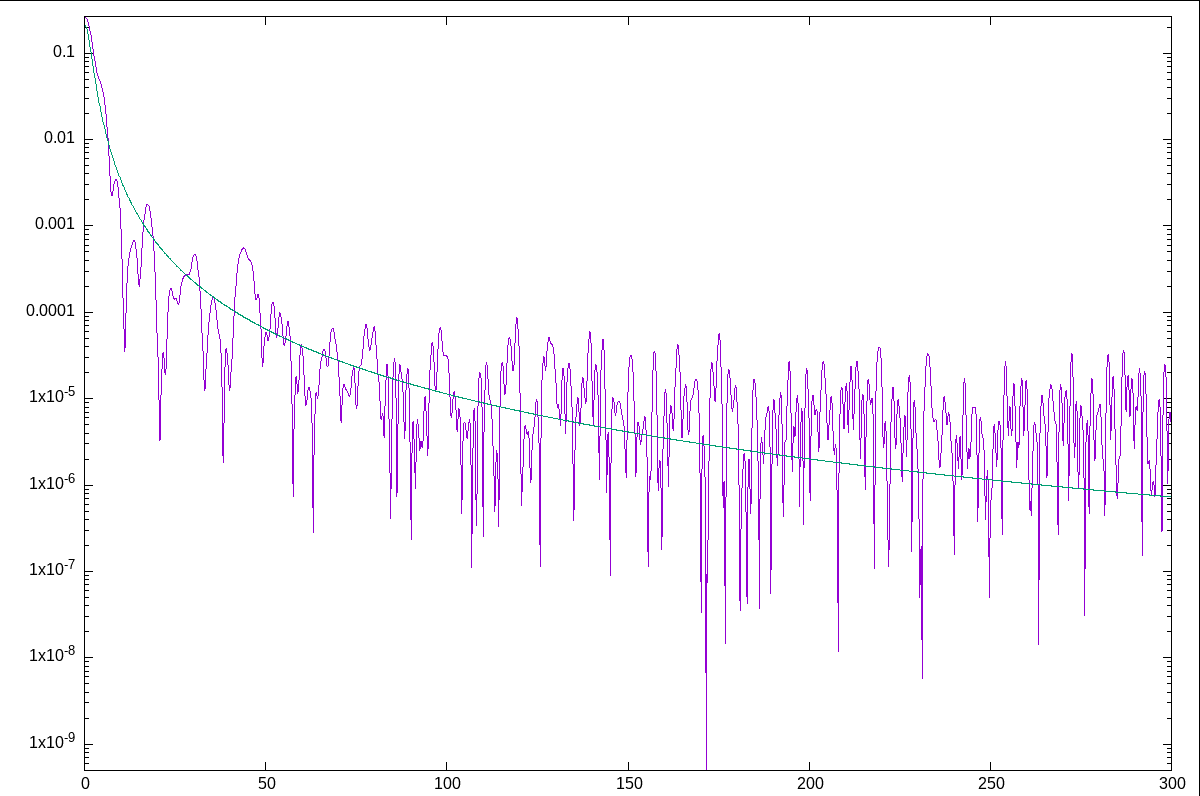
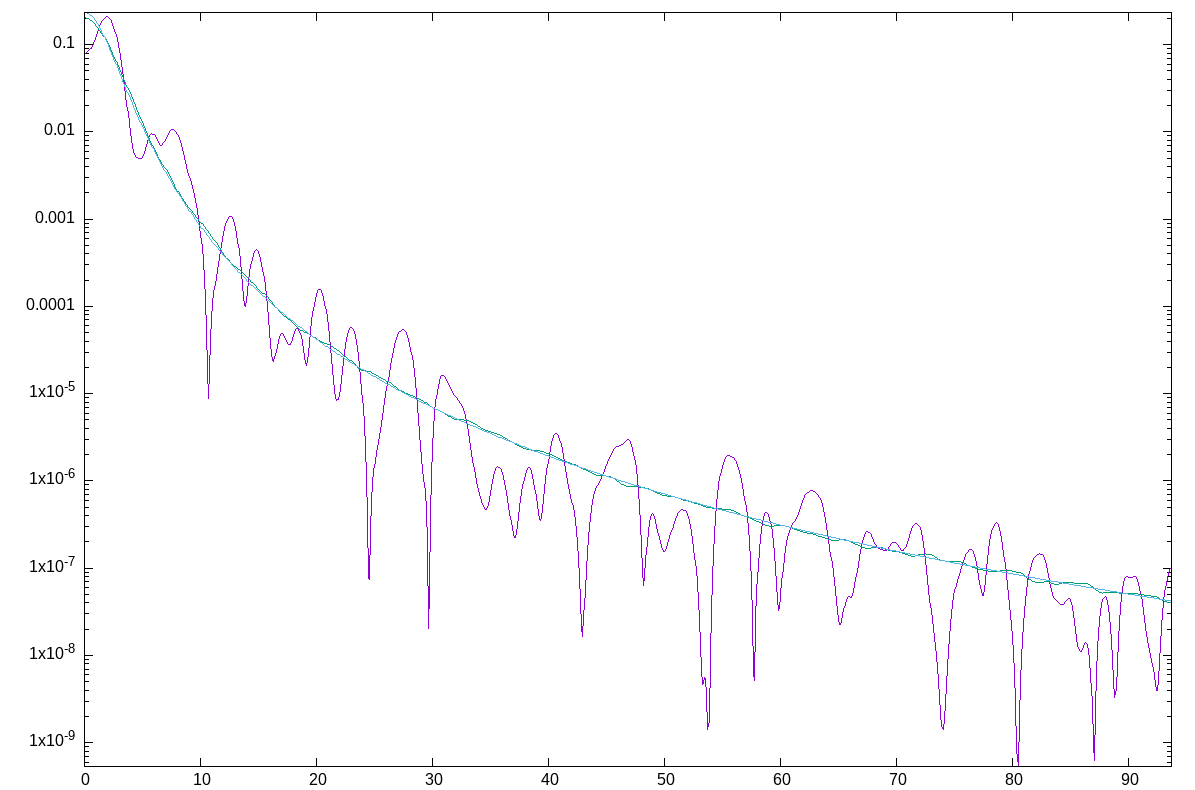
Modified the basic example not to demonstrate over-estimating frequencies, and added a replicate interface to the estimator.

diff --git a/README.md b/README.md
@@ -21,12 +21,13 @@ using IrregularSpectra
 
 # Generate n uniform points on [a, b]:
 n      = 3000
-(a, b) = (0.0, 1.0)
+(a, b) = (-1.0, 1.0)
 pts    = sort(rand(n).*(b-a) .+ a)
 
-# Simulate a Matern process at those points:
-sim = let kernel = (x,y)->IrregularSpectra.matern_cov(x-y, (1.0, 0.1, 0.75))
-  IrregularSpectra.simulate_process(pts, kernel)
+# Simulate a Matern process at those points with m replicates:
+m   = 500 # number of replicates
+sim = let kernel = (x,y)->IrregularSpectra.matern_cov(x-y, (1.0, 0.1, 1.75))
+  IrregularSpectra.simulate_process(pts, kernel, m)
 end
 ```
 
@@ -35,12 +36,13 @@ which we'd like to estimate the SDF, select the window function we wish to use
 (and it is easy to bring your own!), and use the `estimate_sdf` function. The
 choice `20.0` is the shape parameter with the Kaiser window, and for reference
 on the domain of `[a, b] = [0, 1]` that gives a main lobe half-bandwidth of
-`20/pi`, which is about `6.3`.
+`20/(2*pi)`, which is about `3.2`. The function `estimate_sdf`, if given
+multiple iid samples as columns in `sims`, will average the multiple estimates.
 ```{julia}
-nyquist   = n/(4*(b-a))
-est_freqs = range(0.0, 0.4*nyquist, length=10)
+Ω         = 0.5*n/(4*(b-a)) # half of theoretical nyquist max
+est_freqs = range(0.0, Ω/2, length=1000)
 window    = Kaiser(20.0, a=a, b=b)
-est       = estimate_sdf(pts, sim, window, est_freqs)
+est       = estimate_sdf(pts, sims, window, est_freqs; Ω=Ω)
 ```
 **Note:** we are still finalizing the design interface for prolate functions,
 which can provide significantly more performant weights for points sampled on
@@ -60,14 +62,18 @@ diagnostic, but here is a visual one where we estimate at more frequencies (this
 plot was made with my own wrapper of Gnuplot that uses sixel output, but
 substitute with your preferred plotting tool):
 ```{julia}
-many_est_freqs = range(0.0, 0.4*nyquist, length=n)
-est   = estimate_sdf(pts, sim, window, many_est_freqs)
 truth = IrregularSpectra.matern_sdf.(many_est_freqs, Ref((1.0, 0.1, 0.75)))
-gplot(many_est_freqs, est, truth, ylog=true)
+est1  = estimate_sdf(pts, sims[:,1], window, est_freqs; Ω=Ω) 
+gplot(est_freqs, est1, est, truth, ylog=true)
 ```
 <p align="center">
     <img src="quicksixel_est_demo.png" alt="A sample estimator plot" width=600>
 </p>
+This plot shows the estimator from a single sample (purple), the average
+estimate from `m=500` replicates is shown in blue (indicating that the bias in
+the estimate is minimal compared to its expected value), and the true SDF is
+shown in green.
+
 
 
 # Roadmap
